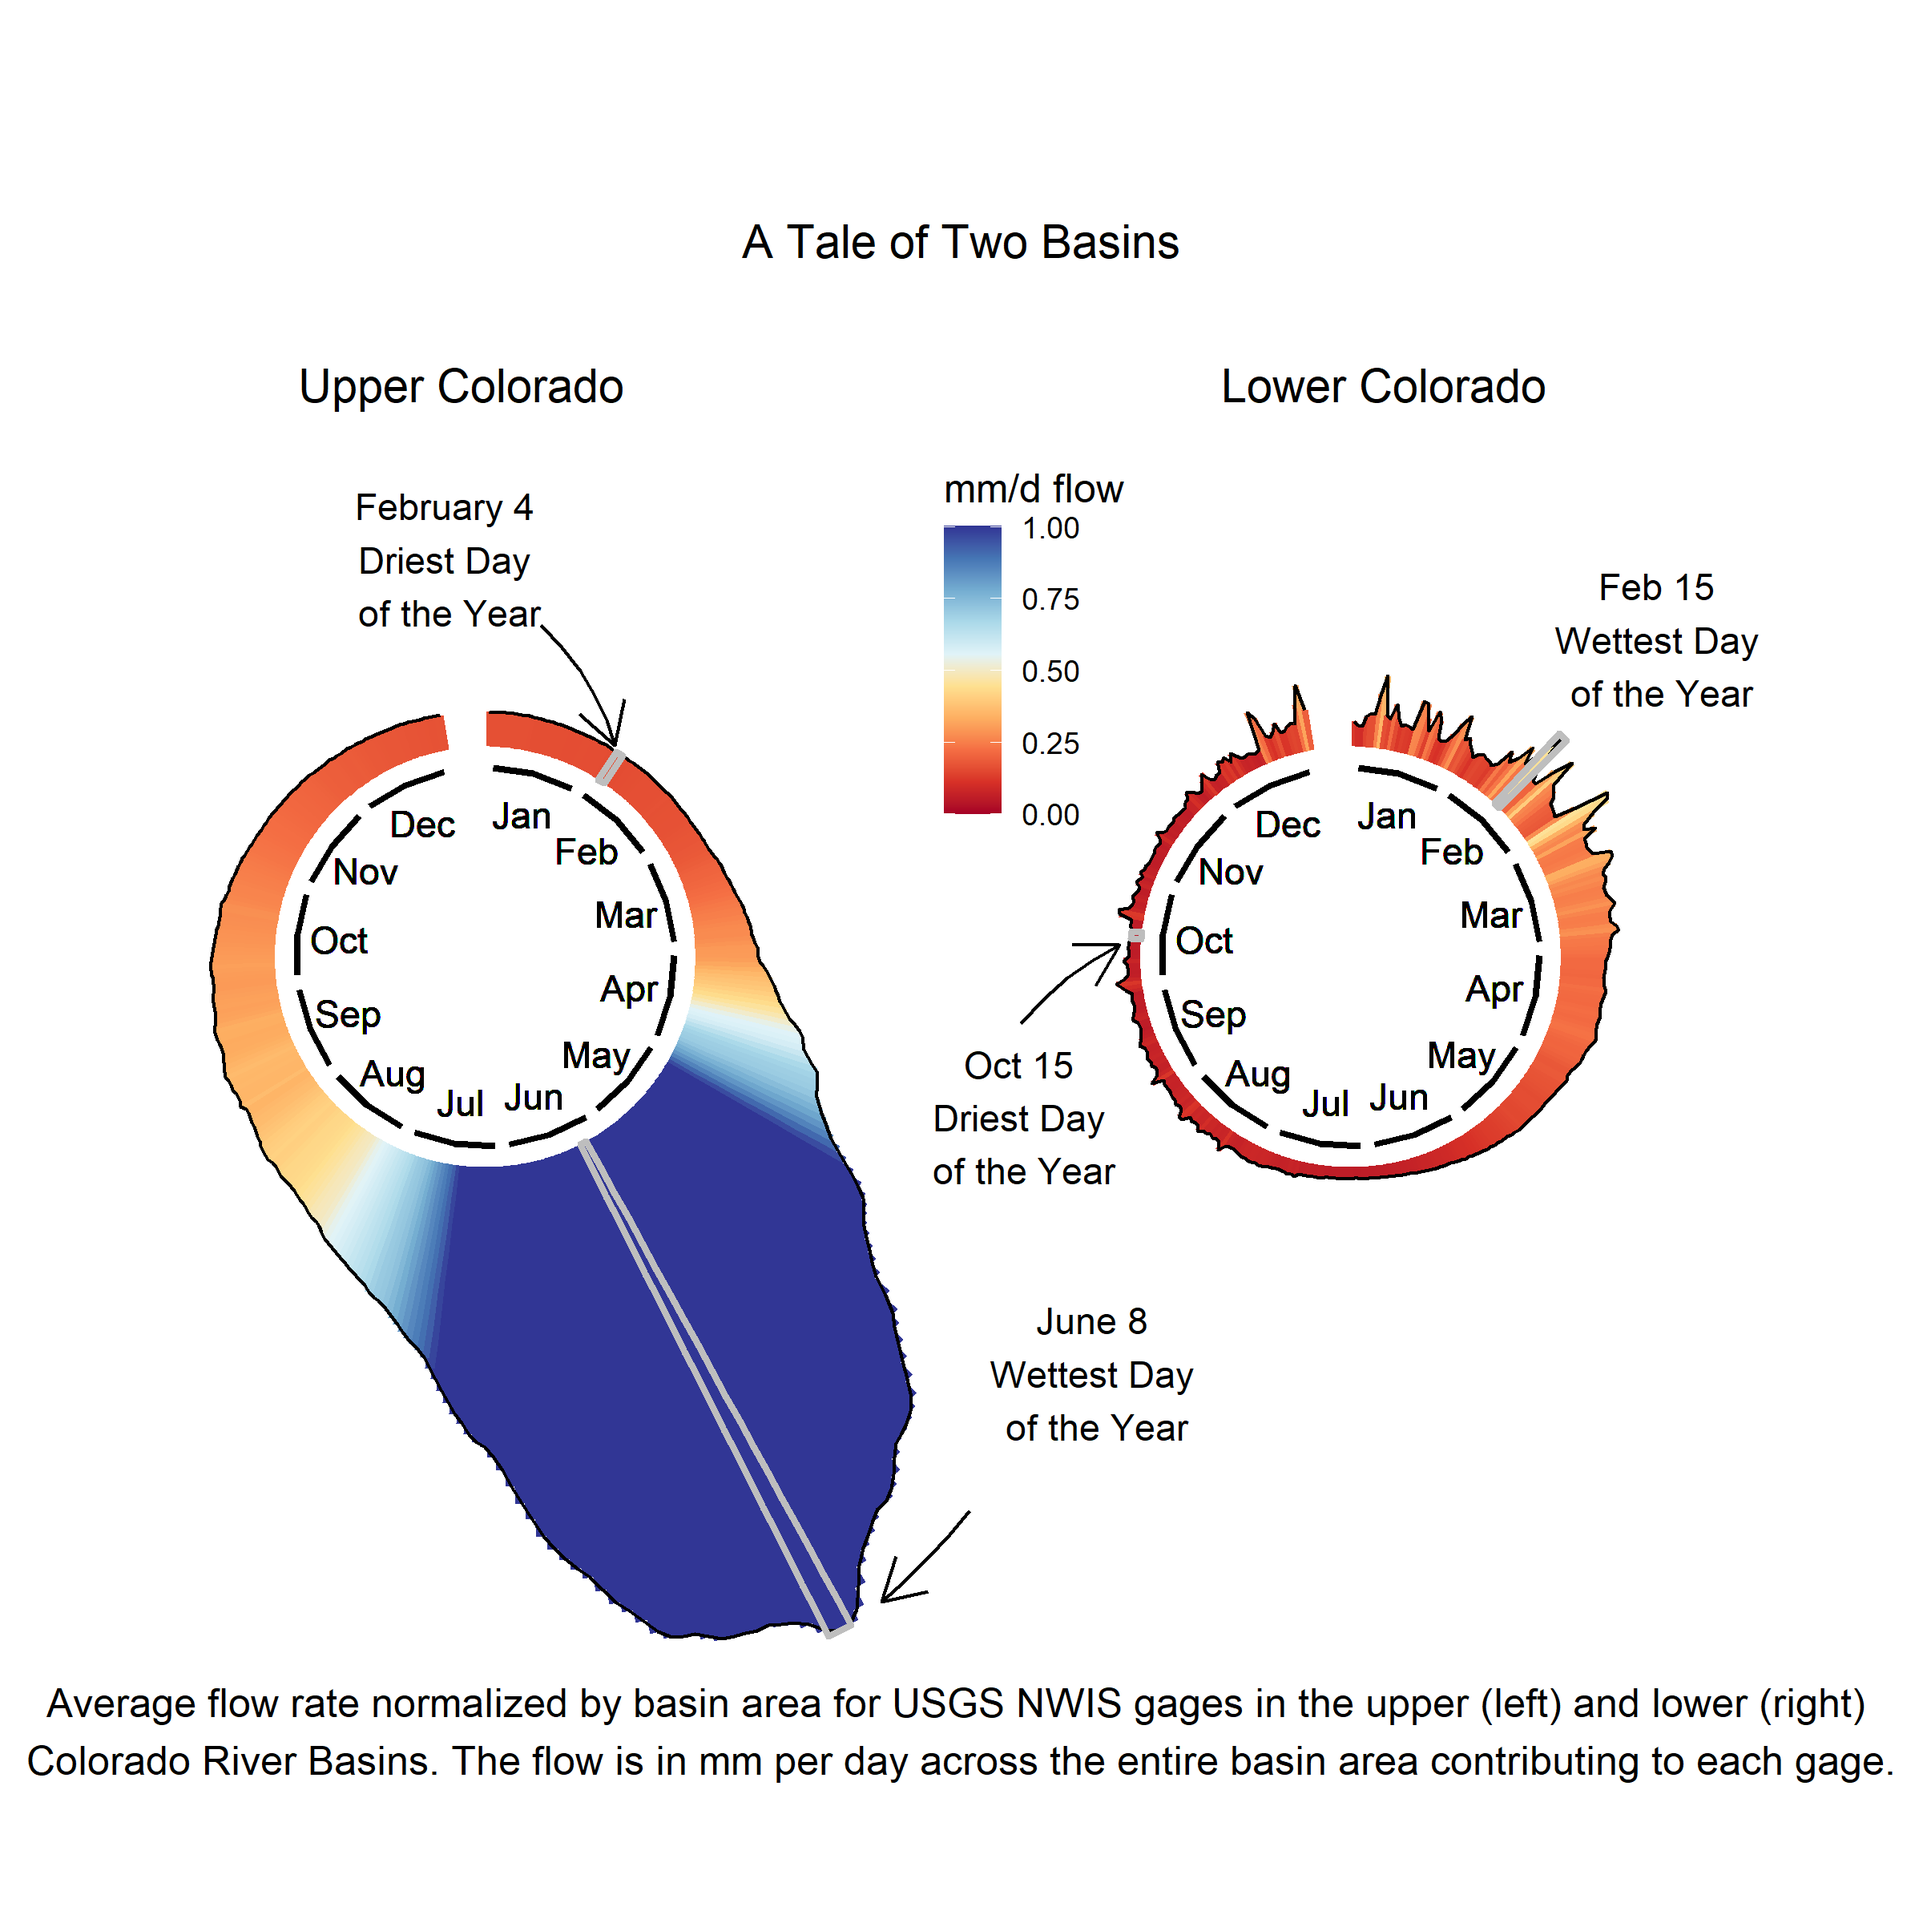
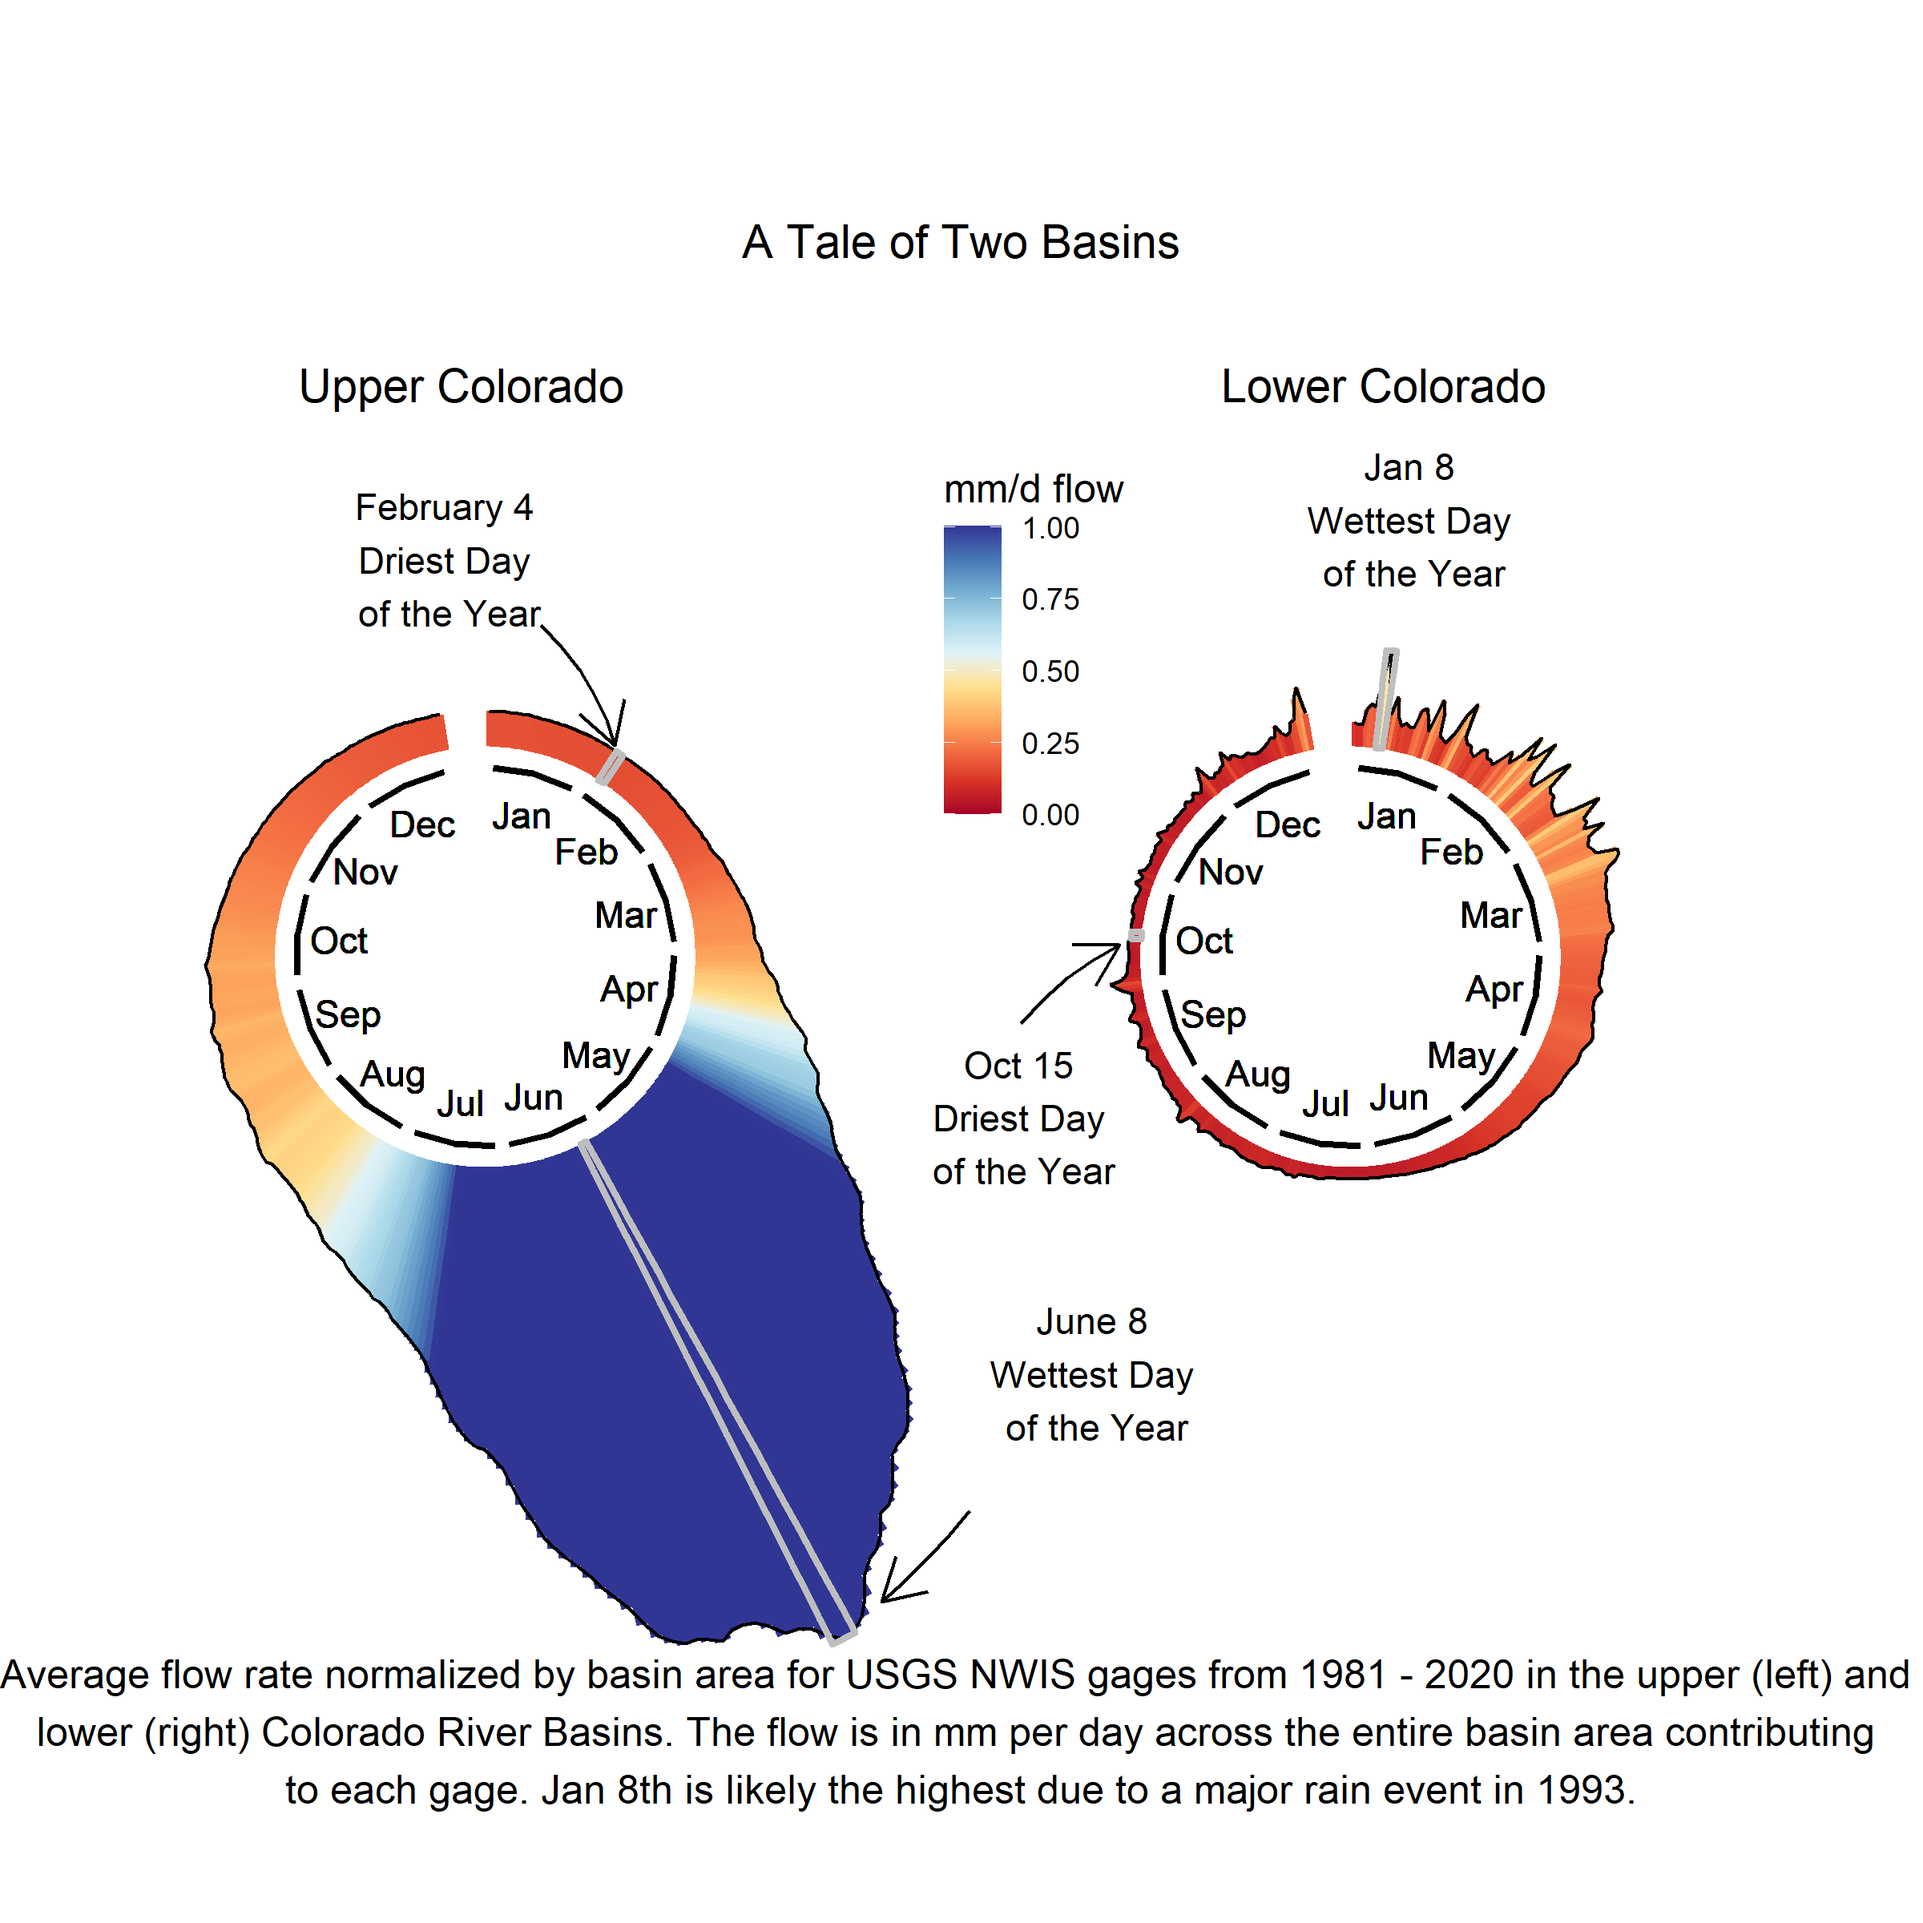
Adding Map of USGS gages and CRB

diff --git a/11_circular_csimeone/README.md b/11_circular_csimeone/README.md
@@ -12,3 +12,9 @@ The amount of flow in rivers in the continental United States varies throughout 
 ![](viz/Wettest_Day_of_the_Year_CRB.png)
 
 The Colorado River Basin demonstrates how varied sub-basin flows can be, with wetter conditions driven by snowmelt in the upper part of the basin, and drier conditions influenced more by monsoonal rains in the lower part of the basin. The USGS is currently working to better understand hydrological drought dynamics across the country and recently hosted a stakeholder listening session on [streamflow drought](https://www.drought.gov/webinars/drought-prediction-focus-streamflow-end-user-listening-session). Future listening sessions aimed at engaging a wide range of stakeholders will cover [groundwater drought](https://www.drought.gov/events/drought-prediction-focus-groundwater-end-user-listening-session), water use, ecosystems, and drought prediction.
+
+# Follow Up Post 3
+
+![](viz/Map_of_Gages.png)
+
+Gages with throrough historical records back to 1951 span across the country, but there are more in some regions than in other. 
